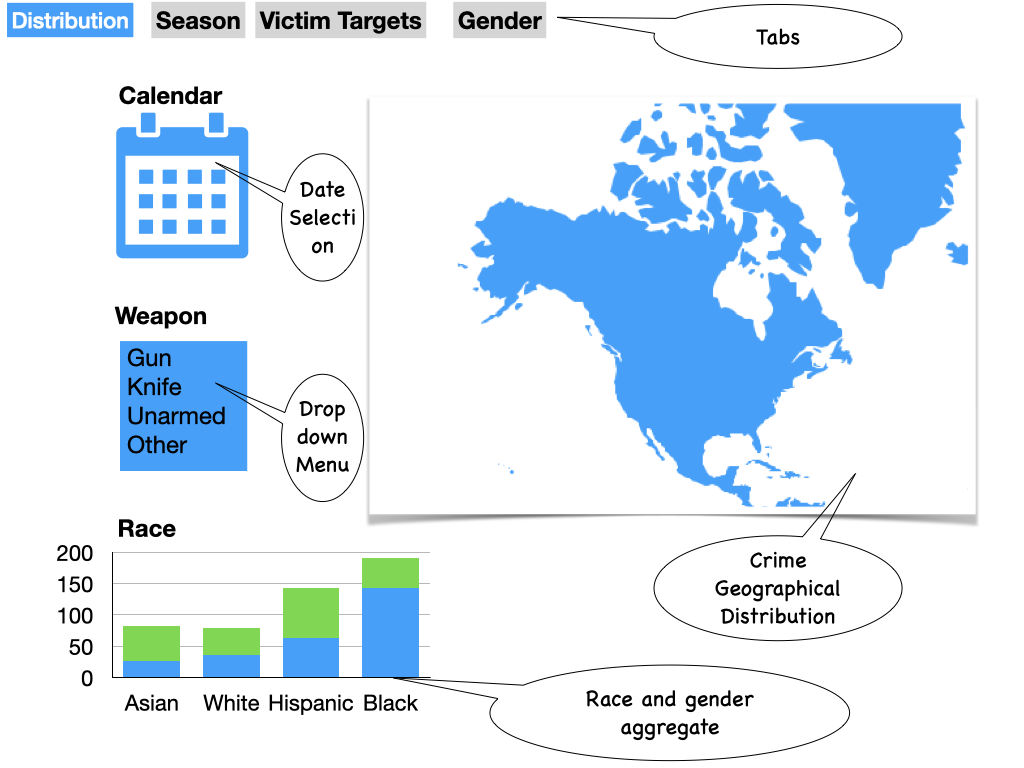
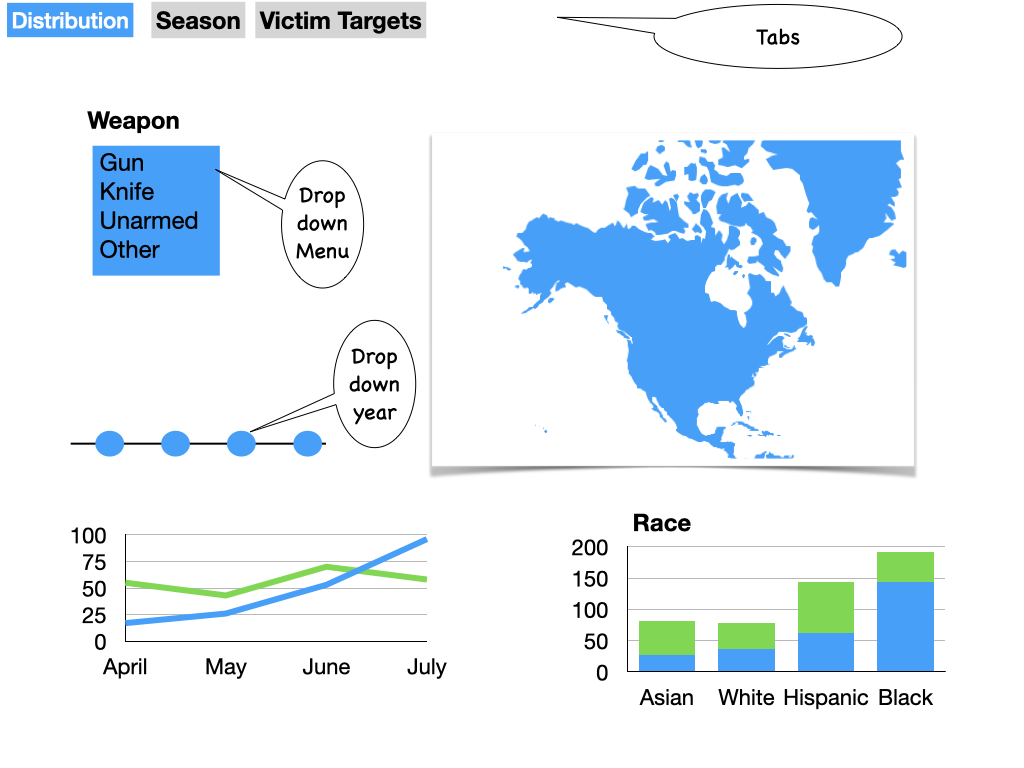
update

diff --git a/README.md b/README.md
@@ -6,7 +6,7 @@ The first tab is designed to mainly demonstrate the geographical distribution of
 
 ![](https://github.com/KingOfOrikid/DATA551_proj/blob/Xinyu/sketch/Tab1.png)
 
-The second tab is to show the frequency of homicide is regulated by season or month. By changing the pointer to a specific time, users can easily see more detailed descriptions or break down information at that time.
+The second tab is to show the frequency of homicide is regulated by season or month. By changing the drop-down menu, users can select the cases given specific relationship, weapon, crime type and state.
 
 ![](https://github.com/KingOfOrikid/DATA551_proj/blob/Xinyu/sketch/Tab2.png)
 
@@ -14,7 +14,5 @@ The third tab aims to show specific *crime corridors* between different race and
 
 ![](https://github.com/KingOfOrikid/DATA551_proj/blob/Xinyu/sketch/Tab3.png)
 
-The fourth tab illustrates how the crimes committed by different gender changes over time 
 
-![](https://github.com/KingOfOrikid/DATA551_proj/blob/Xinyu/sketch/Tab4.png)
 
